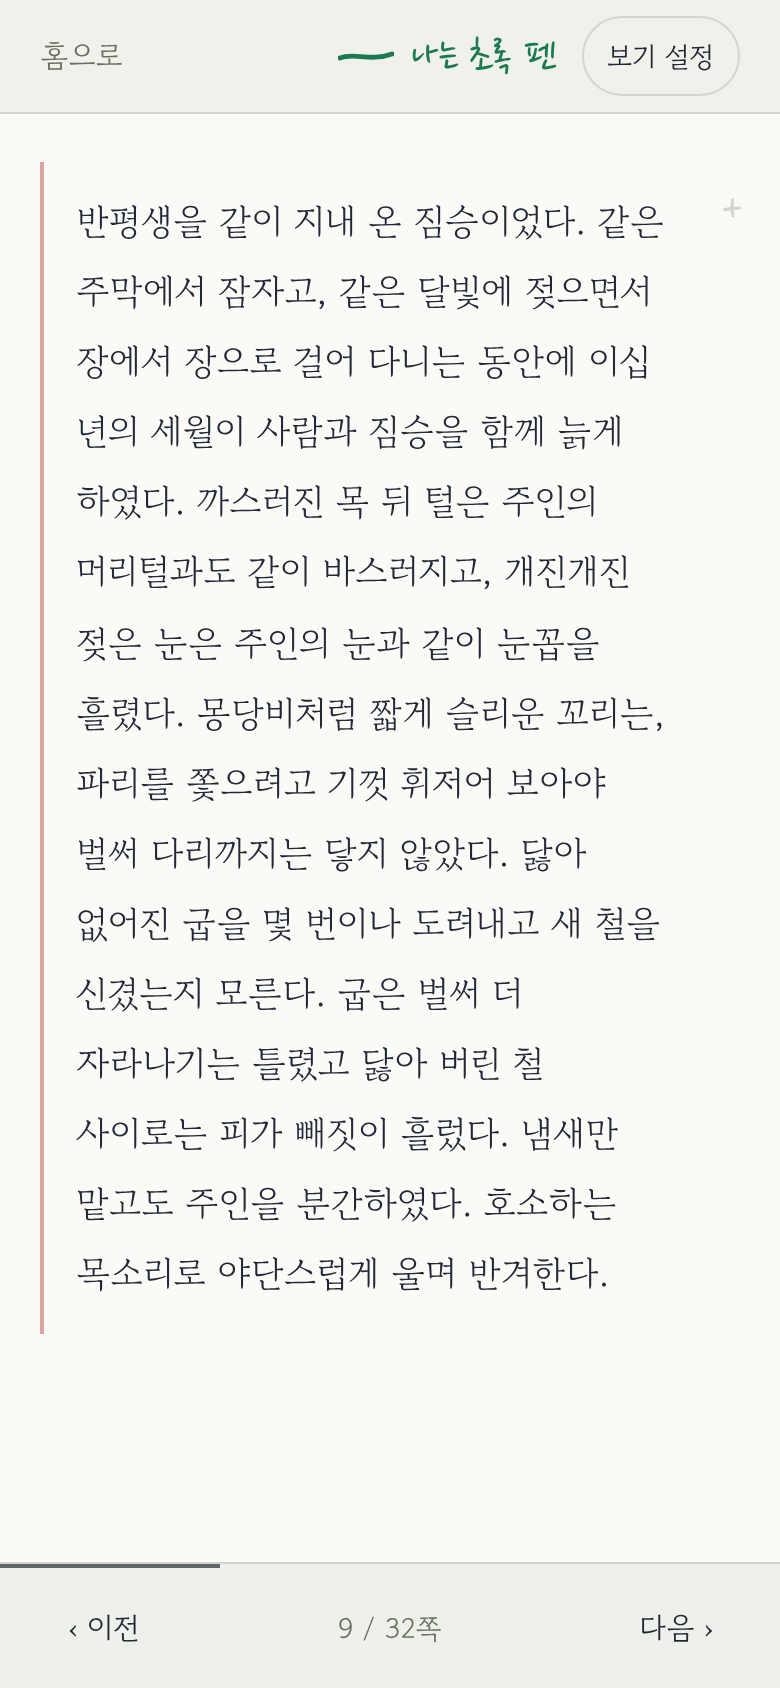
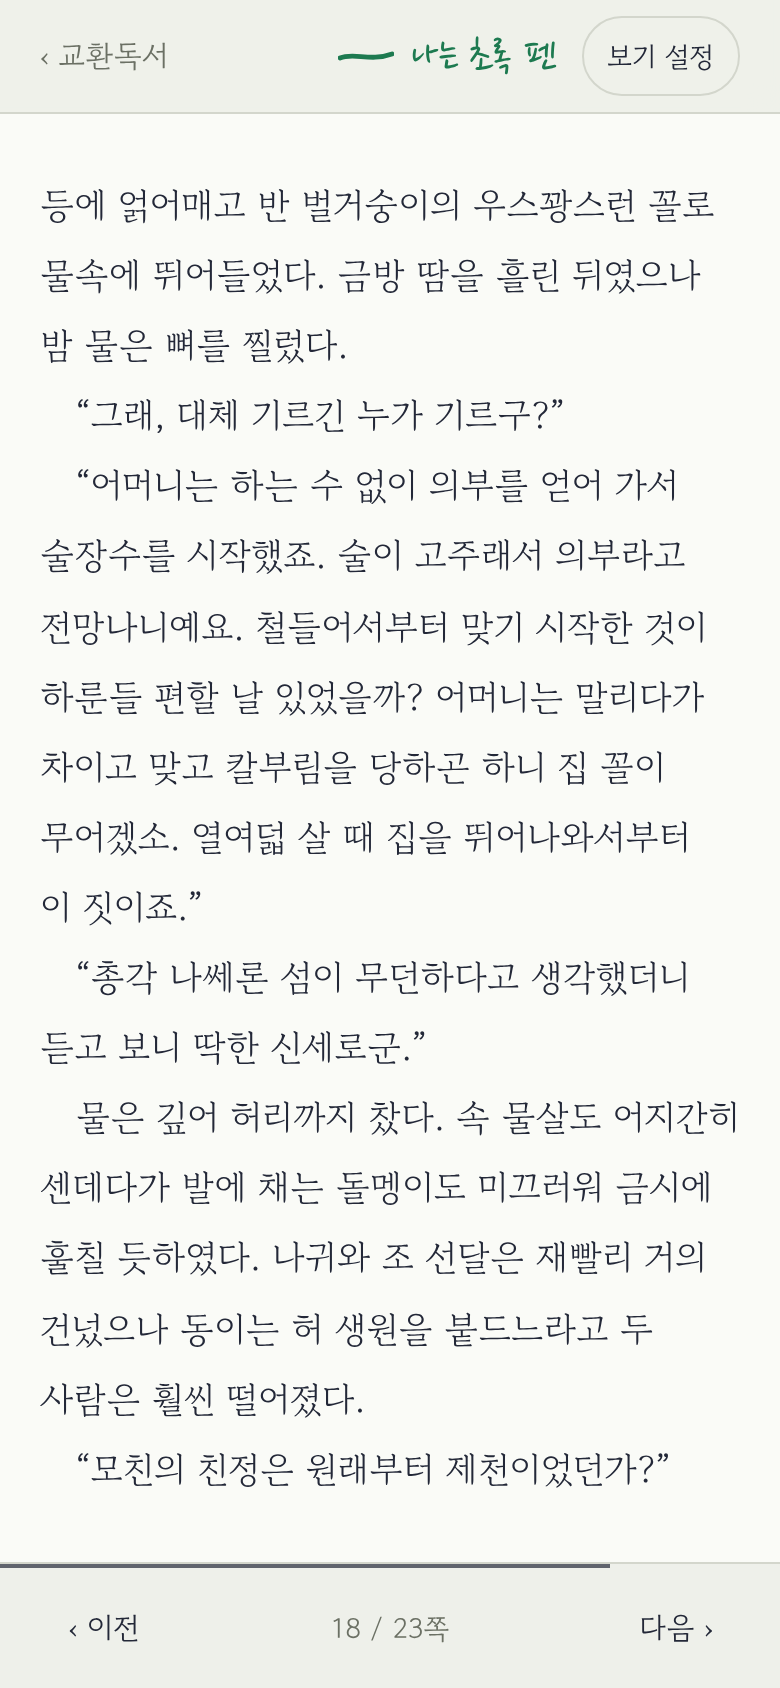
[9-8] Todo에 9단계(사용 후 개선)와 변경 내역 v6, README에 9단계 기능·스크린샷·SQL 10·변경 이유 반영
Claude-Session: https://claude.ai/code/session_013BVLw2KqMvkEmx1EsL8SGb

diff --git a/README.md b/README.md
@@ -41,6 +41,18 @@
 | 쓰기 | 언제든 | 번갈아 한 편씩. 마지막 글이 내 글이면 "짝의 답장을 기다리는 중"으로 잠깁니다 |
 | 홈 표시 | 편 수 | "내 차례" · "짝의 차례" · "짝을 기다리는 중" (알림 대신) |
 
+### 사용 후 개선 (9단계)
+
+| 책처럼 넘기는 페이지 | 밑줄에 한마디 | 날짜별 일기·댓글 |
+|---|---|---|
+| ![페이지](docs/screenshots/page-mode.png) | ![밑줄 한마디](docs/screenshots/underline-sheet.png) | ![날짜 탭](docs/screenshots/diary-day.png) |
+
+- **책처럼 넘기는 페이지** — 글이 문단을 넘어 쪽으로 이어진다(빈자리 없음). 화면 가장자리를 누르거나 밀어서 넘긴다.
+- **밑줄에 한마디** — 문장에 밑줄을 그을 때 짧은 한마디를 붙일 수 있다. 밑줄을 누르면 한마디와 답글이 열린다. 함께 읽기에서는 그 문단에 내 밑줄을 먼저 그어야 남의 한마디가 보인다(블라인드). 문단 메모는 이것으로 대신했다.
+- **일기장 이름 바꾸기**, **내 일기 지우기**, **일기마다 댓글**.
+- **같은 질문** — 교환일기는 두 사람이 같은 질문에 한 번씩 답한 뒤 다음 질문으로 넘어간다.
+- **날짜별 탭** — 달력에서 날짜를 누르면 그날 쓴 일기만 따로 보는 탭이 열린다.
+
 ### 화면 구조 (8단계)
 
 | 처음 화면 (PC) | 일기 달력 |
@@ -88,6 +100,7 @@
 | 권한 | 모든 테이블 RLS (`supabase/02_rls.sql`) |
 | 함수 | `start_solo_room`, `create_solo_diary`, `join_room`, `find_diary_partner`, `can_write_diary`, `my_diaries` (`supabase/04~06`), `create_private_room`, `create_private_diary`, `join_by_code`, `leave_room`, `leave_diary` (`07~09`) |
 | 7단계 테이블 | highlights(문장 밑줄), letters(편지) (`supabase/08_extras.sql`) |
+| 9단계 | diaries.title, diary_comments(일기 댓글), highlights.memo(밑줄 한마디), highlight_replies(밑줄 답글), `rename_diary` (`supabase/10_v6.sql`). 문단 메모용 notes 테이블은 남아 있지만 화면에서는 쓰지 않는다 |
 
 방·일기장에 들어가는 일(멤버 추가)은 앱에서 직접 하지 않고 DB 함수로만 합니다. 빈자리 찾기와 펜 색 배정을 한 번에, 동시에 두 사람이 같은 자리를 잡지 않게 처리하기 위해서입니다.
 
@@ -106,6 +119,7 @@
      7. `supabase/07_invite.sql` — 참여 코드
      8. `supabase/08_extras.sql` — 문장 밑줄, 편지, 방 나가기
      9. `supabase/09_leave_diary.sql` — 일기장 나가기
+     10. `supabase/10_v6.sql` — 일기장 이름, 일기 지우기·댓글, 밑줄 한마디·답글
 2. **환경변수** — `.env.example`을 `.env.local`로 복사하고, Project Settings → API의 값으로 채운다.
    ```
    NEXT_PUBLIC_SUPABASE_URL=https://YOUR-PROJECT.supabase.co
@@ -125,7 +139,7 @@ Vercel에 배포할 때는 같은 환경변수 두 개를 프로젝트 Settings 
 ## 2. PRD와 Todo 리스트
 
 - [PRD 전문](docs/PRD.md)
-- [Todo 리스트 전문](docs/TODO.md) — 마감 버전 할 일 73개 + 추가 기능 10개 + 화면 개편 7개, 진행 상황은 체크박스로 표시
+- [Todo 리스트 전문](docs/TODO.md) — 마감 버전 할 일 73개 + 추가 기능 10개 + 화면 개편 7개 + 사용 후 개선 8개, 진행 상황은 체크박스로 표시
 - [디자인 방향](docs/DESIGN.md) — Todo 1-5에서 정한 색·글꼴·배치
 - 원본 문서: [Claude Doc](https://claude.ai/artifact/CzzFGXDqp23qeduMBbtov1)
 
@@ -146,6 +160,7 @@ Vercel에 배포할 때는 같은 환경변수 두 개를 프로젝트 Settings 
 | 6 | 완료 기준 점검 | 9 |
 | 7 | 추가 기능 (마감 후) | 10 |
 | 8 | 화면 구조 개편 | 7 |
+| 9 | 사용 후 개선 | 8 |
 
 커밋은 할 일 1~3개마다 `[할 일 번호] 내용` 형식으로 나눠 push했다 ([커밋 기록](https://github.com/choi140/exchange-reading/commits/main)).
 
@@ -213,6 +228,15 @@ Vercel에 배포할 때는 같은 환경변수 두 개를 프로젝트 Settings 
 | 8-5, 8-6 | 일기장 위에 쓰기 칸, 쓴 일기는 그 아래 | 달력 + 쓴 일기가 먼저("일기" 탭), 쓰기는 "오늘의 일기 쓰기" 탭 |
 
 이유: 앱의 중심이 교환독서와 교환일기 두 가지인데 한 화면에 섞여 있었고, 일기는 쓴 것을 다시 보기 어렵다는 사용 후기를 반영했다.
+
+### 사용 후 개선: 9단계 (v6)
+
+| 할 일 | 전 | 후 | 이유 |
+|---|---|---|---|
+| 9-6 (7-1 다시) | 페이지를 문단 단위로 나눔 | 글을 CSS 다단으로 흘려 문단도 쪽을 넘어감 | 쪽마다 아래에 빈자리가 남아 어색했다. 7-1에서 "메모가 문단에 붙어 있어서" 문단을 쪼개지 않았는데, 9-7로 문단 메모를 없애자 그 제약도 사라졌다 |
+| 9-7 (3-3~3-5, 4-5~4-7 대체) | 문단마다 메모 개수·메모 창·답글·블라인드 | 밑줄에 한마디, 밑줄 답글, 문단 단위 블라인드 | 문장 밑줄(7-6)이 생기니 문단 메모와 겹쳤다. 사용자에게 "밑줄만 / 밑줄에 한마디 / 문단 메모 유지"를 물어 "밑줄에 한마디"로 결정 |
+| 9-3 (7-3 고침) | 한 편 쓸 때마다 다음 질문 | 교환일기는 두 사람이 같은 질문에 답한 뒤 다음 질문 | 한 사람이 쓰면 질문이 바뀌어 둘이 서로 다른 질문에 답하고 있었다 |
+| 9-5 | 일기를 한 목록에 다 펼침 | 목록은 3줄 미리보기, 날짜를 누르면 그날만 보는 탭 | 일기가 쌓이면 스크롤이 너무 길었다 |
 
 ### 하지 않기로 한 것
 
